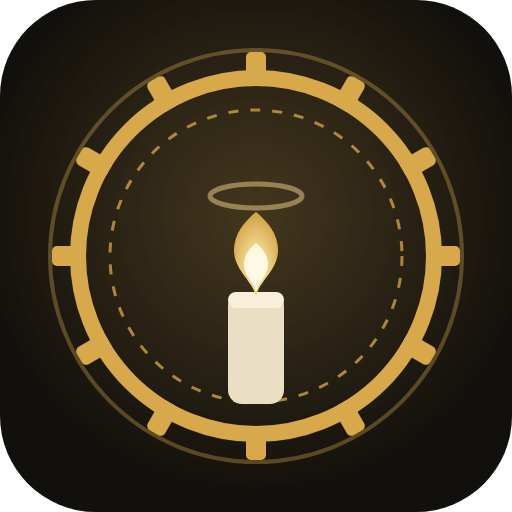
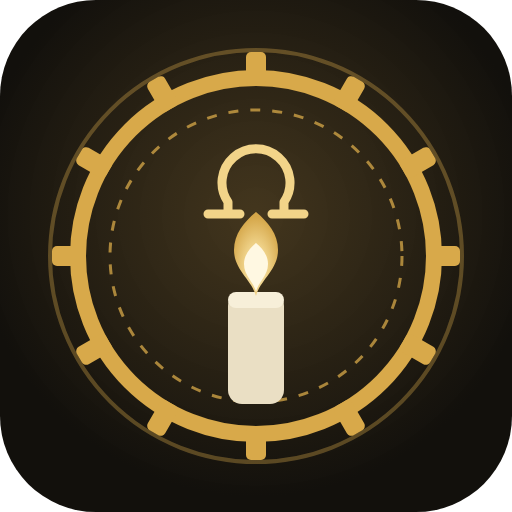
feat: 改名为 dsh-om-messiah（1.3.0），图标加 Ω

Changed region(s): [[0.375, 0.2812, 0.625, 0.4375]]

diff --git a/index.js b/index.js
@@ -1,5 +1,5 @@
 /**
- * dsh-mechanicus — rewrite every user prompt into a Mechanicus prayer before it
+ * dsh-om-messiah — rewrite every user prompt into an Om Messiah prayer before it
  * reaches the model.
  *
  * The interception point is the Host waterfall event `agent/pre-step`: the Agent
@@ -23,7 +23,7 @@ import { classify } from './lib/guards.js'
 import { buildPrayer, normalizeConfig, LITURGY_FIELDS } from './lib/prayer.js'
 import { createSettingsApi, prayerOptions } from './lib/settings-api.js'
 
-export const name = 'mechanicus'
+export const name = 'om-messiah'
 
 /** Load schemastery from the plugin, else from any installed profile. */
 async function loadSchema() {
@@ -76,7 +76,7 @@ export const Config =
 function echoLines(original, rewritten, config, skip) {
   const head = skip !== undefined && skip !== '' ? `skipped (${skip})` : `wrapped (${config.intensity})`
   return [
-    `[dsh-mechanicus] ${head}: ${original.length} -> ${rewritten.length} chars`,
+    `[dsh-om-messiah] ${head}: ${original.length} -> ${rewritten.length} chars`,
     '----- original -----',
     original,
     '----- prayer -----',
@@ -93,7 +93,7 @@ function choiceLine(route, fallback) {
       : route === 'original'
         ? '发送原文'
         : `未作答（按 fallback=${fallback} 发送）`
-  return `[dsh-mechanicus] choice: ${text}`
+  return `[dsh-om-messiah] choice: ${text}`
 }
 
 /**
@@ -115,7 +115,7 @@ function makeEcho(ctx, config) {
         await appendFile(config.echoFile, `${line}\n`, 'utf8')
       } catch (error) {
         try {
-          logger?.warn?.(`[dsh-mechanicus] cannot write echoFile: ${String(error)}`)
+          logger?.warn?.(`[dsh-om-messiah] cannot write echoFile: ${String(error)}`)
         } catch {}
       }
     }
@@ -180,7 +180,7 @@ export function apply(ctx, config) {
   const logger = ctx?.logger
   const warn = (error) => {
     try {
-      logger?.warn?.(`[dsh-mechanicus] ${error instanceof Error ? error.message : String(error)}`)
+      logger?.warn?.(`[dsh-om-messiah] ${error instanceof Error ? error.message : String(error)}`)
     } catch {}
   }
   const echo = makeEcho(ctx, cfg)
@@ -255,7 +255,7 @@ export function apply(ctx, config) {
 
   try {
     logger?.info?.(
-      `[dsh-mechanicus] active: enabled=${cfg.enabled} intensity=${cfg.intensity} quote=${cfg.quoteStyle} echo=${cfg.echo}`,
+      `[dsh-om-messiah] active: enabled=${cfg.enabled} intensity=${cfg.intensity} quote=${cfg.quoteStyle} echo=${cfg.echo}`,
     )
   } catch {}
 }
@@ -312,7 +312,7 @@ function mountSettingsRoutes(ctx, cfg, warn) {
     try {
       const url = new URL(req.url ?? '/', 'http://127.0.0.1')
       const path = url.pathname
-      if (path === '/api/mechanicus/config') {
+      if (path === '/api/om-messiah/config') {
         if (req.method === 'GET') return sendJson(res, 200, api.read())
         if (req.method === 'POST') {
           const body = await readJson(req)
@@ -321,7 +321,7 @@ function mountSettingsRoutes(ctx, cfg, warn) {
         }
         return sendJson(res, 405, { ok: false, error: `不支持 ${req.method}` })
       }
-      if (path === '/api/mechanicus/preview' && req.method === 'POST') {
+      if (path === '/api/om-messiah/preview' && req.method === 'POST') {
         const body = await readJson(req)
         const result = api.preview(body)
         return sendJson(res, result.status, result.body)
@@ -340,10 +340,10 @@ function mountSettingsRoutes(ctx, cfg, warn) {
       () =>
         webServer.register({
           kind: 'prefix',
-          path: '/api/mechanicus',
+          path: '/api/om-messiah',
           handler,
         }),
-      'mechanicus: 设置页接口',
+      'om-messiah: 设置页接口',
     )
   } catch (error) {
     warn(error)

diff --git a/client.js b/client.js
@@ -1,5 +1,5 @@
 /**
- * dsh-mechanicus —— 浏览器半端：它在「设置」里的一页
+ * dsh-om-messiah —— 浏览器半端：它在「设置」里的一页
  * ============================================================================
  * client bundle 不是 ESM，是自注册脚本（约定抄自 dsh-bili-scroll）：
  *
@@ -11,24 +11,24 @@
  * 进「设置」的方式：
  *
  *     slots.inject('settings.section', () => slots.register(
- *       { name: 'settings.section', id: 'mechanicus', order: 41, label: '机械神教' },
+ *       { name: 'settings.section', id: 'om-messiah', order: 41, label: '欧姆弥赛亚' },
  *       () => h(Panel),
  *     ))
  *
  * 注意：Client 半读不到也写不了插件 config（Client Service 里没有配置服务），
  * 所以这一页只负责界面，数据走 Host 半的同源路由：
- *   GET  /api/mechanicus/config   当前生效配置
- *   POST /api/mechanicus/config   校验并持久化（Host 用 configEditor）
- *   POST /api/mechanicus/preview  拿一段文字试改写
+ *   GET  /api/om-messiah/config   当前生效配置
+ *   POST /api/om-messiah/config   校验并持久化（Host 用 configEditor）
+ *   POST /api/om-messiah/preview  拿一段文字试改写
  */
 
 window.__ModuleLoader__.load({
-  id: 'dsh-mechanicus',
+  id: 'dsh-om-messiah',
   factory: (require) => {
     const React = require('react')
     const h = React.createElement
 
-    const API = '/api/mechanicus'
+    const API = '/api/om-messiah'
 
     /* 一律看 res.ok：HTTP 500 的 {ok:false,error} 不能被当成"已保存" */
     const asJson = async (res) => {
@@ -451,16 +451,16 @@ window.__ModuleLoader__.load({
       inject: ['slots'],
       apply(ctx) {
         const style = document.createElement('style')
-        style.setAttribute('data-plugin-css', 'dsh-mechanicus')
+        style.setAttribute('data-plugin-css', 'dsh-om-messiah')
         style.textContent = CSS
         document.head.appendChild(style)
-        ctx.effect(() => () => style.remove(), 'dsh-mechanicus: 设置页样式')
+        ctx.effect(() => () => style.remove(), 'dsh-om-messiah: 设置页样式')
 
         const slots = (typeof ctx.get === 'function' ? ctx.get('slots') : undefined) || ctx.slots
         if (!slots) return
         slots.inject('settings.section', () =>
           slots.register(
-            { name: 'settings.section', id: 'mechanicus', order: 41, label: '机械神教' },
+            { name: 'settings.section', id: 'om-messiah', order: 41, label: '欧姆弥赛亚' },
             () => h(Panel),
           ),
         )

diff --git a/lib/choice.js b/lib/choice.js
@@ -13,7 +13,7 @@
  */
 
 /** Question id, stable so an old draft cannot be mistaken for a new one. */
-export const CHOICE_ID = 'mechanicus-route'
+export const CHOICE_ID = 'om-messiah-route'
 
 /** The two answers the card offers, in display order. */
 export const OPTION_PRAYER = '发送祷文'
@@ -27,7 +27,7 @@ export function choiceQuestions() {
   return [
     {
       id: CHOICE_ID,
-      header: '机械神教',
+      header: '欧姆弥赛亚',
       question: '祷文已降下。这一轮，用哪一段作为你的提示词？',
       options: [
         { label: OPTION_PRAYER, description: '把整段祷文发给模型（默认）。' },
@@ -96,7 +96,7 @@ export async function askRoute(options) {
   if (signal !== undefined && signal !== null && typeof signal.addEventListener === 'function') {
     signal.addEventListener('abort', forward, { once: true })
   }
-  const timer = setTimeout(() => controller.abort(new Error('dsh-mechanicus: choice timed out')), timeoutMs)
+  const timer = setTimeout(() => controller.abort(new Error('dsh-om-messiah: choice timed out')), timeoutMs)
   // Never keep the process alive just for this timer (CLI runs must exit).
   if (typeof timer?.unref === 'function') timer.unref()
 

diff --git a/lib/settings-api.js b/lib/settings-api.js
@@ -6,9 +6,9 @@
  * theme/timer/uiWorkspace/workspaces). So the page talks to two Host routes
  * registered here:
  *
- *   GET  /api/mechanicus/config   → the config that is actually in effect
- *   POST /api/mechanicus/config   → validate + persist via `configEditor`
- *   POST /api/mechanicus/preview  → try the prayer on arbitrary text
+ *   GET  /api/om-messiah/config   → the config that is actually in effect
+ *   POST /api/om-messiah/config   → validate + persist via `configEditor`
+ *   POST /api/om-messiah/preview  → try the prayer on arbitrary text
  *
  * `configEditor` is the only sanctioned way to persist a plugin config: it
  * validates, writes the profile patch and reconciles through the normal Loader
@@ -19,7 +19,7 @@ import { buildPrayer, normalizeConfig, LITURGY_FIELDS } from './prayer.js'
 import { classify } from './guards.js'
 
 /** Patch id of this plugin inside `cordis.patch.yml`. */
-export const PATCH_ID = 'mechanicus'
+export const PATCH_ID = 'om-messiah'
 
 const INTENSITIES = ['low', 'medium', 'high']
 const QUOTE_STYLES = ['quote', 'plain']

diff --git a/README.md b/README.md
@@ -1,15 +1,15 @@
 <div align="center">
 
-<img src="icon.svg" width="88" alt="dsh-mechanicus" />
+<img src="icon.svg" width="88" alt="dsh-om-messiah" />
 
-# 🕯 dsh-mechanicus
+# 🕯 dsh-om-messiah
 
 **把每一句提示词，先献给万机之神。**
 
 在提示词送达模型之前，把它改写成机械神教／欧姆弥赛亚的祷文；祷文降下之后，再由你决定这一轮发祷文，还是发原文。
 
 <p>
-  <a href="https://www.npmjs.com/package/dsh-mechanicus"><img src="https://img.shields.io/npm/v/dsh-mechanicus?style=flat-square&color=cb3837" alt="npm version" /></a>
+  <a href="https://www.npmjs.com/package/dsh-om-messiah"><img src="https://img.shields.io/npm/v/dsh-om-messiah?style=flat-square&color=cb3837" alt="npm version" /></a>
   <a href="https://github.com/yuanzephyr920-oss/dsh-mechanicus/stargazers"><img src="https://img.shields.io/github/stars/yuanzephyr920-oss/dsh-mechanicus?style=flat-square&color=d8a657" alt="GitHub stars" /></a>
   <a href="LICENSE"><img src="https://img.shields.io/badge/license-MIT-4c8bf5?style=flat-square" alt="License: MIT" /></a>
   <img src="https://img.shields.io/badge/DSH-0.2%2B-8b5cf6?style=flat-square" alt="DSH 0.2+" />
@@ -87,13 +87,13 @@
 从 npm 装（一次 `plugin add` 就好，不需要在 `allowBuilds` 里点授权）：
 
 ```bash
-dsh plugin --profile desktop add dsh-mechanicus
+dsh plugin --profile desktop add dsh-om-messiah
 ```
 
 刚发布时如果装到的是旧版本（国内镜像同步有几小时延迟），加一次源：
 
 ```bash
-dsh plugin --profile desktop add dsh-mechanicus --registry=https://registry.npmjs.org
+dsh plugin --profile desktop add dsh-om-messiah --registry=https://registry.npmjs.org
 ```
 
 从 GitHub 直接装：
@@ -106,7 +106,7 @@ dsh plugin --profile desktop add https://github.com/yuanzephyr920-oss/dsh-mechan
 
 ```bash
 git clone https://github.com/yuanzephyr920-oss/dsh-mechanicus
-dsh plugin --profile desktop add /path/to/dsh-mechanicus
+dsh plugin --profile desktop add /path/to/dsh-om-messiah
 ```
 
 Windows 上 `dsh` 不在 PATH 时，用安装目录里的 CLI：
@@ -122,14 +122,14 @@ dsh.cmd plugin --profile desktop add https://github.com/yuanzephyr920-oss/dsh-me
 
 ### 3. 确认装好了
 
-- 设置 → 插件：能看到「机械神教祷文改写（dsh-mechanicus）」且已启用；
+- 设置 → 插件：能看到「机械神教祷文改写（dsh-om-messiah）」且已启用；
 - 设置 → 机械神教：本插件自己的页面；
 - 随便发一句话，第一个回答前应该出现选择卡。
 
 卸载：
 
 ```bash
-dsh plugin --profile desktop remove dsh-mechanicus
+dsh plugin --profile desktop remove dsh-om-messiah
 ```
 
 > 装过早期的 `@local/dsh-om-messiah` 的话，先 `remove` 掉再装这个，避免两套包装叠加。
@@ -149,7 +149,7 @@ DSH_MECHANICUS_ECHO=1 dsh.cmd <profile> 用 three.js 做一个海中小岛
 ```
 
 ```text
-[dsh-mechanicus] wrapped (medium): 18 -> 180 chars
+[dsh-om-messiah] wrapped (medium): 18 -> 180 chars
 ----- original -----
 用 three.js 做一个海中小岛
 ----- prayer -----
@@ -275,7 +275,7 @@ closing: 欧姆弥赛亚在上！
 **样式不外溢。** 每条规则都以 `[data-mk-page]` 开头，只作用于本页；不用 `!important`、不写全局标签选择器、
 不改 `html/body`。主题想改圆角可以覆盖 `--mk-radius`（默认 `8px`）；系统要求减少动效时开关动效关闭。
 
-**导航里是并列的一栏。** 用自有 id 注册（`settings.section` / `id: mechanicus` / `order: 41`），不改官方条目。
+**导航里是并列的一栏。** 用自有 id 注册（`settings.section` / `id: om-messiah` / `order: 41`），不改官方条目。
 
 **与同样会碰提示词的插件共存：**
 
@@ -329,7 +329,7 @@ admission → 落盘 user/message → 拼进请求 → 模型
 ## 开发与测试
 
 ```bash
-cd dsh-mechanicus
+cd dsh-om-messiah
 node --test                 # 67 个用例；Node 24 下不要写 `node --test test/`
 node scripts/samples.mjs    # 打印三组改写前后对照（low / medium / high 可选）
 ```
@@ -337,9 +337,9 @@ node scripts/samples.mjs    # 打印三组改写前后对照（low / medium / hi
 文件结构：
 
 ```text
-dsh-mechanicus/
+dsh-om-messiah/
 ├── package.json          # 包名、exports、files、dsh.bundle.patch
-├── cordis.patch.yml      # 挂载点：insert 一个 id=mechanicus 的插件
+├── cordis.patch.yml      # 挂载点：insert 一个 id=om-messiah 的插件
 ├── index.js              # apply()：pre-step 监听、设置页接口、echo 日志
 ├── client.js             # 浏览器半边：设置 → 机械神教
 ├── lib/
